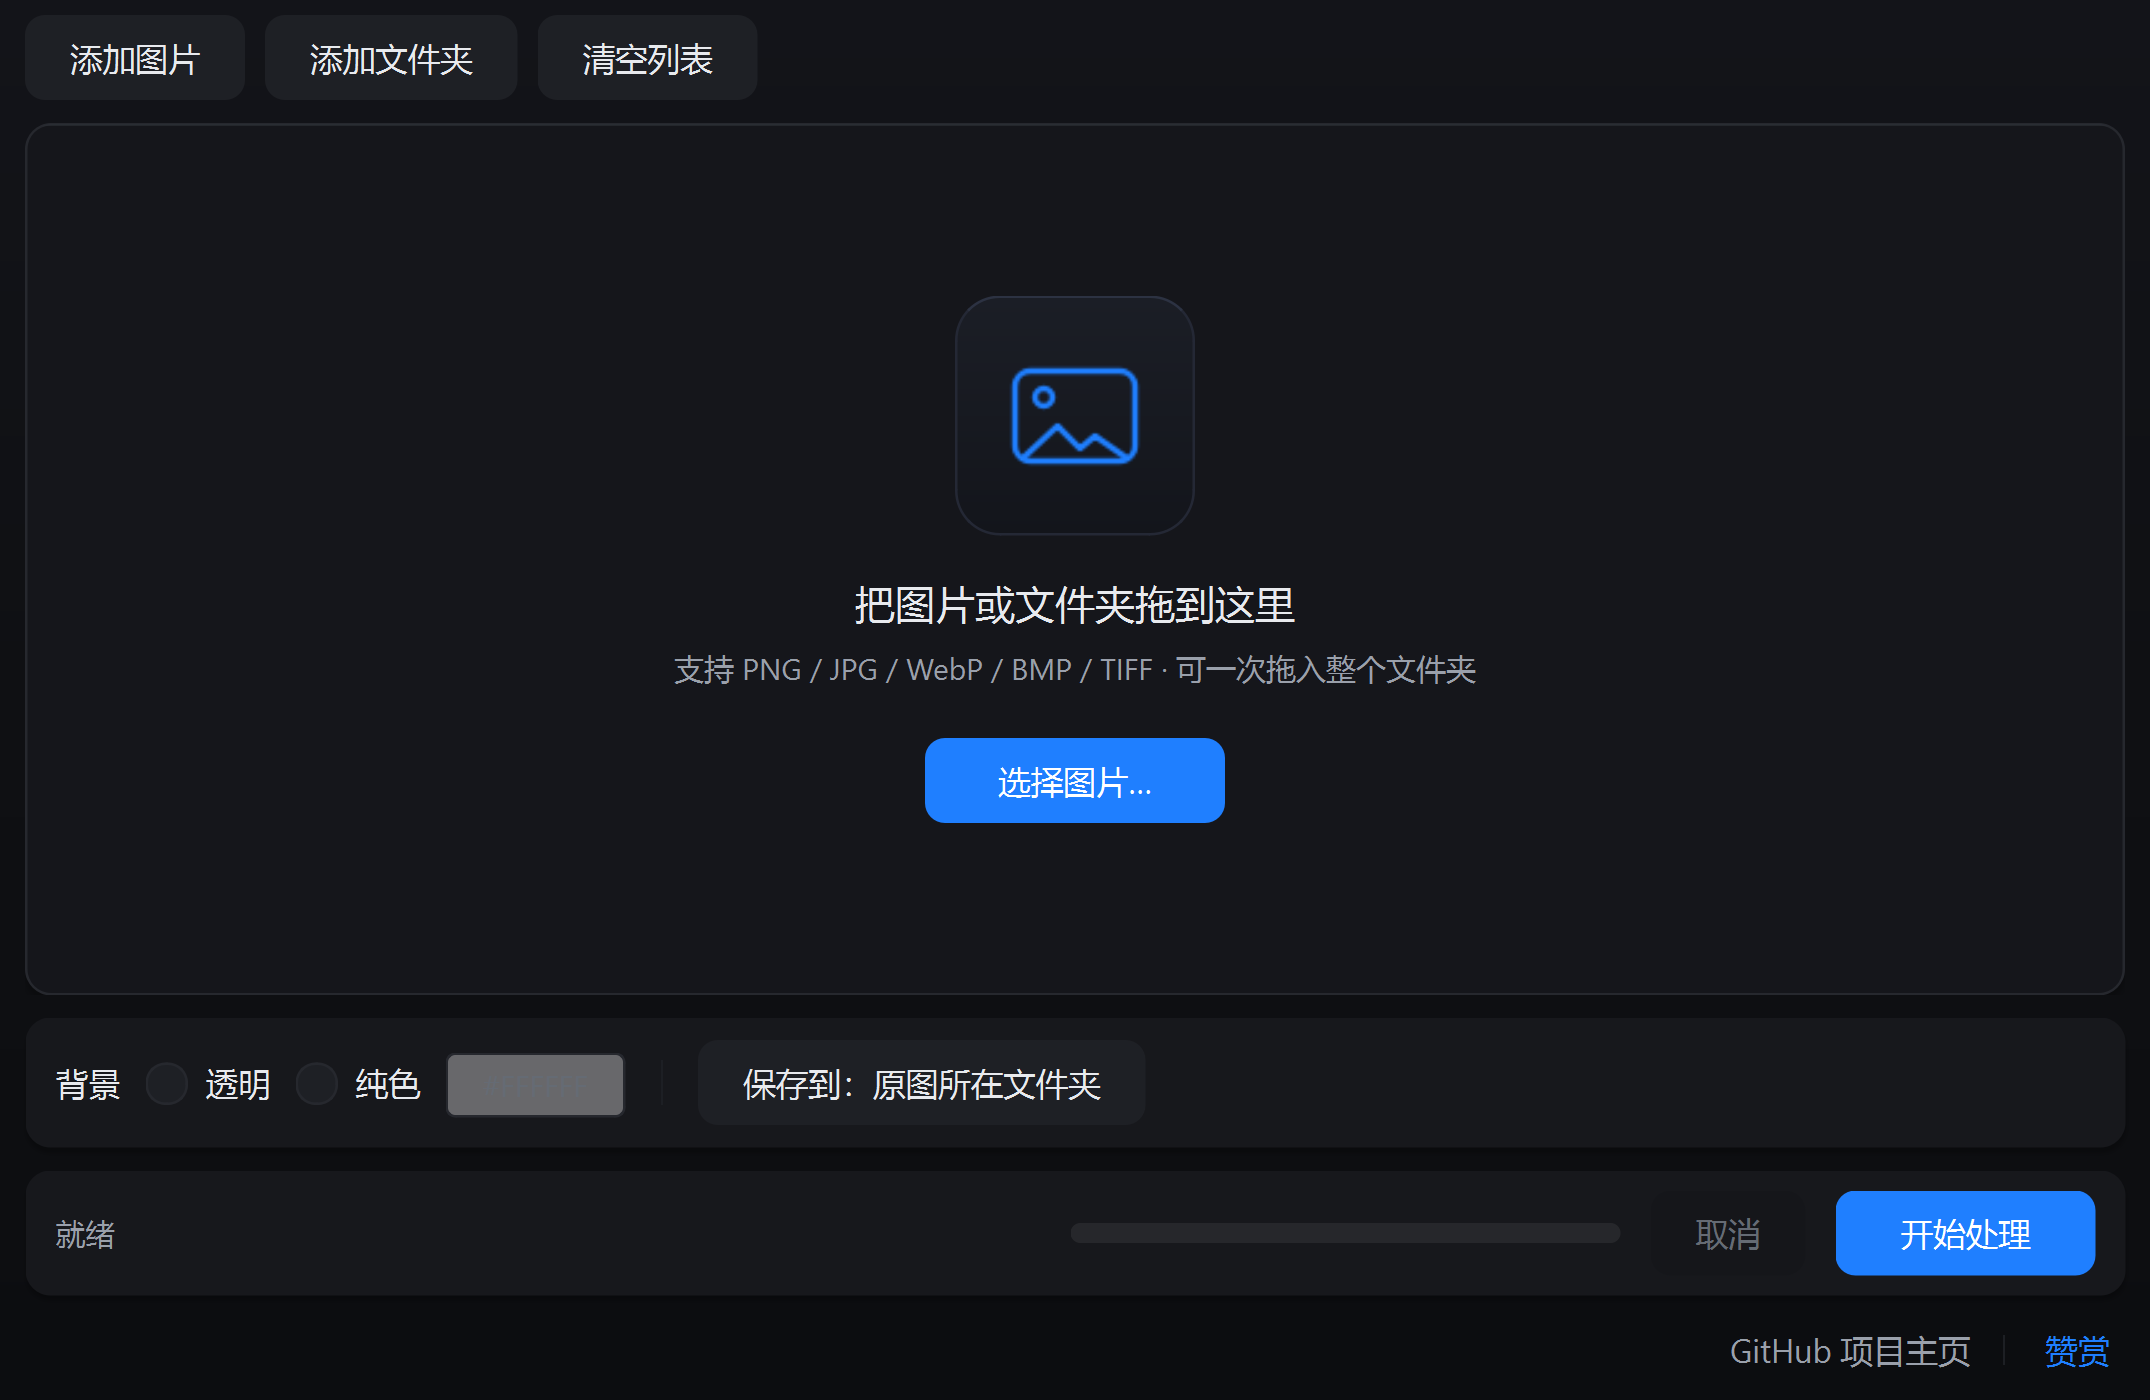
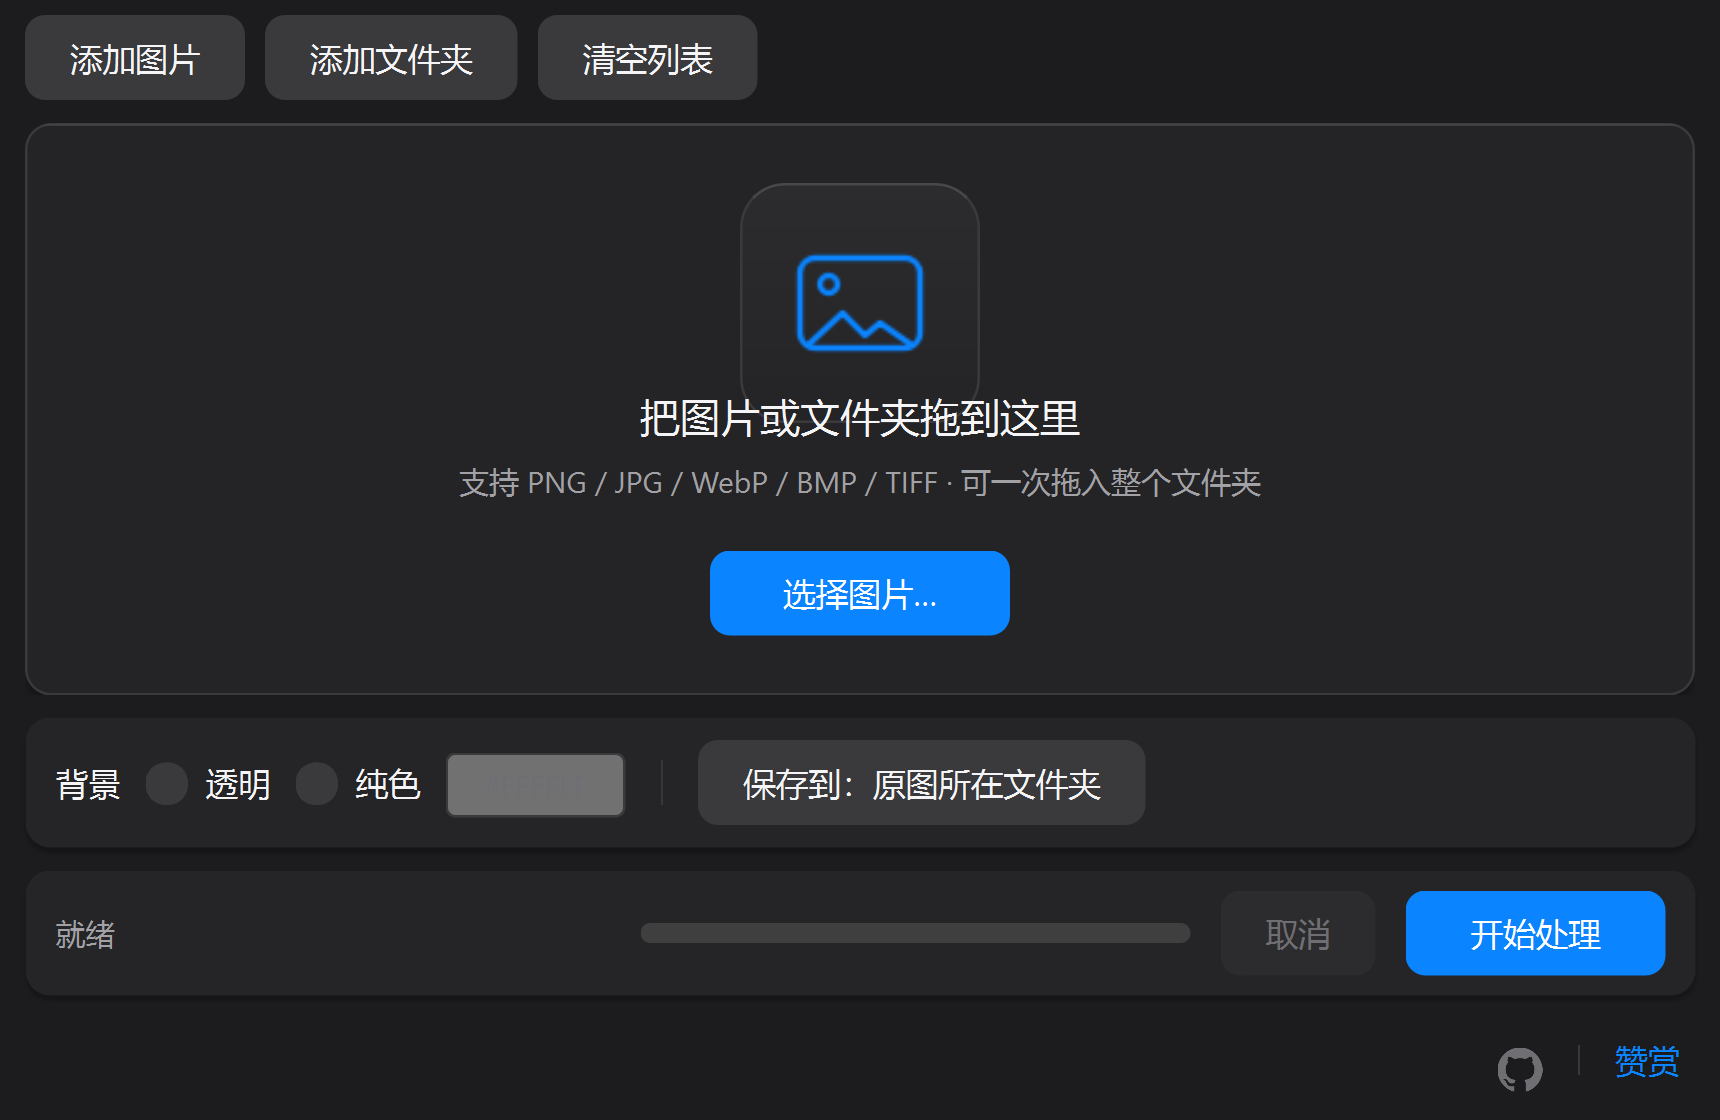
ui: 界面换苹果深色配色——中性灰底/系统蓝 #0A84FF/灰色胶囊按钮，列表行高 32，Windows 标题栏压深；布局与交互不动；v0.6.0

diff --git a/app/ui/style.py b/app/ui/style.py
@@ -1,16 +1,11 @@
-"""界面主题（流晷暗色）。
+"""界面主题（苹果深色 · macOS Sonoma 取色）。
 
-v0.5.0 对齐用户上一款产品「流晷计时器」的设计语言，核心结论来自那次对比：
-对比度高不等于突兀——流晷的对比度比上一版 PixTrace 高得多，但很干净。区别在：
+v0.6.0 换成苹果深色：底色从「近黑」抬到中性深灰（#1c1c1e），面板比底色亮一档
+（#252527）浮起，强调色改系统蓝 #0A84FF，按钮改灰色填充胶囊、分隔线压到发丝级。
 
-- **底色够深**（#0f1013 近黑）：面板（#17181c）靠明度差自然浮起，
-  不需要「1px 边框 + 顶部高光 + 投影」三件套来证明层次。
-  之前几版的「突兀感」正是这些细碎装饰叠出来的；本版把边框和高光基本拿掉。
-- **强调色纯而收敛**（#1f7fff 亮蓝）：只出现在焦点处——选中行、主按钮、
-  单选点、链接。面积小而纯，所以亮也不吵。上一版把蓝压灰（#4171cd）
-  治标不治本，界面反而发闷。
-- **选中 = 实心亮蓝块 + 白字**（流晷式），不再用暗蓝底灰字。
-- 形态放宽：圆角 8/10，按钮 min-height 22。
+这个决定和 v0.3.1 那次「苹果风被否」不冲突——那次踩的是浅色 + 大圆角 + 毛玻璃
+三件套，跟工具软件的调性打架；这次只借苹果深色的**取色与层次逻辑**，布局、
+动效、交互全部沿用流晷那套已经验证过的骨架，所以只是换皮，不是重做。
 
 仍然把 QSS 写成 Python 常量而不是 .qss 文件：打包时不必处理资源路径
 （PyInstaller 对数据文件的路径处理是个常见的坑）。
@@ -22,6 +17,8 @@ QGraphicsDropShadowEffect 补。动画/自绘过渡见 app/ui/anim.py。
 from __future__ import annotations
 
 # ---------------------------------------------------------------- 字体
+# 苹果的 SF Pro 拿不到授权，Windows 上只能退到系统中文字体；字重靠 QSS 的
+# font-weight 微调，不要试图去模拟 SF 的字形。
 UI_FONT = (
     '"Segoe UI", "Microsoft YaHei UI", "PingFang SC", "Helvetica Neue", sans-serif'
 )
@@ -30,55 +27,55 @@ MONO_FONT = '"Cascadia Mono", "Consolas", monospace'
 # ---------------------------------------------------------------- 色板
 # 常量名是既有接口（anim.py 自绘、main_window、preview、model_dialog 都引用），
 # 只换值不改名。
-BG = "#0f1013"          # 窗体底：近黑（流晷同款深度）
-BG_PANEL = "#17181c"    # 面板 / 卡片：靠明度差浮起，无边框
-BG_CARD = "#17181c"
-BG_WELL = "#121317"     # 凹槽：列表 / 表头
-BG_DROP = "#15161b"     # 空状态拖拽区：比面板亮一丝
-BG_DROP_ACTIVE = "#14294f"  # 拖拽悬停：带蓝的深底
-BG_INPUT = "#1e2025"
-BG_FILL = "#1e2025"     # 次级填充：进度槽、悬停底
-BG_HOVER = "#25272e"
-BG_PRESSED = "#191b1f"  # 按压变暗（比变亮更符合「按下去」的直觉）
-BTN_HOVER = "#25272e"
-BG_SELECTED = "#1f7fff"  # 列表选中：实心亮蓝块（流晷式）
-BORDER = "#1d1f24"      # 极淡：深底下只留一条「若隐若现」的线
-BORDER_STRONG = "#26282e"
-BORDER_HOVER = "#34373f"
-HILIGHT = "#1d1f24"     # 顶部高光已弱化到与边框同色：不再作为分层手段
-HILIGHT_STRONG = "#2b2e35"
-BG_DISABLED = "#15161a"
-BORDER_DISABLED = "#202227"
-BG_GLYPH_TOP = "#1b1e26"   # 空状态图标小卡
-BG_GLYPH_BOTTOM = "#13151b"
-BORDER_GLYPH = "#242835"
-HILIGHT_GLYPH = "#2c3242"
-TEXT = "#e8eaee"
-TEXT_DIM = "#9aa0ab"
-TEXT_FAINT = "#656b74"
+BG = "#1c1c1e"          # 窗体底：中性深灰（苹果深色的 windowBackground）
+BG_PANEL = "#252527"    # 面板 / 卡片：比底色亮一档，靠明度差浮起
+BG_CARD = "#252527"
+BG_WELL = "#1c1c1e"     # 凹槽：列表 / 表头与窗体同色（苹果列表不另铺底）
+BG_DROP = "#242426"     # 空状态拖拽区：比窗体亮一点，像一块可投放的板
+BG_DROP_ACTIVE = "#102c4a"  # 拖拽悬停：系统蓝的深色底
+BG_INPUT = "#3a3a3c"    # 控件填充：苹果的灰色胶囊按钮
+BG_FILL = "#3a3a3c"     # 次级填充：进度槽、悬停底
+BG_HOVER = "#3a3a3c"
+BG_PRESSED = "#2c2c2e"  # 按压变暗（比变亮更符合「按下去」的直觉）
+BTN_HOVER = "#48484a"
+BG_SELECTED = "#0a84ff"  # 列表选中：系统蓝实心块
+BORDER = "#38383a"      # 发丝线：只用来分栏，不用来「撑」层次
+BORDER_STRONG = "#3a3a3c"
+BORDER_HOVER = "#545456"
+HILIGHT = "#38383a"     # 顶部高光与边框同色：不作为分层手段
+HILIGHT_STRONG = "#48484a"
+BG_DISABLED = "#2c2c2e"
+BORDER_DISABLED = "#333335"
+BG_GLYPH_TOP = "#2c2c2e"   # 空状态图标小卡
+BG_GLYPH_BOTTOM = "#242426"
+BORDER_GLYPH = "#3a3a3c"
+HILIGHT_GLYPH = "#48484a"
+TEXT = "#f5f5f7"        # 苹果的 label
+TEXT_DIM = "#a1a1a6"    # secondaryLabel
+TEXT_FAINT = "#6e6e73"  # tertiaryLabel
 TEXT_ON_ACCENT = "#ffffff"
-ACCENT = "#1f7fff"      # 流晷同款亮蓝，只用在焦点处
-ACCENT_HOVER = "#3d90ff"
-ACCENT_PRESSED = "#1668d6"
-ACCENT_SOFT = "#142a52"  # 下拉列表等次级选中底
-ACCENT_HILIGHT = "#69a7ff"
-OK = "#3fd0a4"
-WARN = "#d9b36c"
-ERR = "#f28b82"
-OK_TEXT = "#43d9a8"
-WARN_TEXT = "#e3c084"
-ERR_TEXT = "#ff8078"
-PREVIEW_BG = "#0b0c0e"
-CHECKER_LIGHT = "#292c33"   # 预览窗透明区棋盘格
-CHECKER_DARK = "#1e2025"
+ACCENT = "#0a84ff"      # 系统蓝（深色模式），只用在焦点处
+ACCENT_HOVER = "#409cff"
+ACCENT_PRESSED = "#0060df"
+ACCENT_SOFT = "rgba(10, 132, 255, 0.20)"  # 下拉列表等次级选中底
+ACCENT_HILIGHT = "#64b5ff"
+OK = "#30d158"
+WARN = "#ffd60a"
+ERR = "#ff453a"
+OK_TEXT = "#30d158"
+WARN_TEXT = "#ffd60a"
+ERR_TEXT = "#ff453a"
+PREVIEW_BG = "#1c1c1e"
+CHECKER_LIGHT = "#2c2c2e"   # 预览窗透明区棋盘格
+CHECKER_DARK = "#242426"
 
-# 主窗口中央区：极淡的纵向渐变（底已近黑，跨度刻意很小）
-SURFACE_TOP = "#131419"
-SURFACE_BOTTOM = "#0c0d10"
+# 主窗口中央区：苹果深色是平的，不再做纵向渐变
+SURFACE_TOP = "#1c1c1e"
+SURFACE_BOTTOM = "#1c1c1e"
 
-FOCUS_RING = "rgba(31, 127, 255, 0.5)"
-TRACK = "rgba(255, 255, 255, 0.07)"
-ROW_HOVER = "rgba(255, 255, 255, 0.05)"
+FOCUS_RING = "rgba(10, 132, 255, 0.5)"
+TRACK = "rgba(255, 255, 255, 0.12)"
+ROW_HOVER = "rgba(255, 255, 255, 0.06)"
 
 STATUS_COLORS = {
     "等待": TEXT_FAINT,

diff --git a/app/main.py b/app/main.py
@@ -194,6 +194,29 @@ def _uicheck(out_path: Path | None = None) -> int:
     return 0 if ok else 1
 
 
+def _use_dark_titlebar(window) -> None:
+    """Windows：把系统标题栏也压成深色。
+
+    深色界面配一条白标题栏，看起来像两个程序拼在一起。DWMWA_USE_IMMERSIVE_DARK_MODE
+    在 Win10 20H1 之后是 20，更早是 19，两个都试；失败就静默放弃（只是不好看，不影响功能）。
+    """
+    if sys.platform != "win32":
+        return
+    try:
+        import ctypes
+
+        hwnd = int(window.winId())
+        value = ctypes.c_int(1)
+        for attribute in (20, 19):
+            result = ctypes.windll.dwmapi.DwmSetWindowAttribute(
+                hwnd, attribute, ctypes.byref(value), ctypes.sizeof(value)
+            )
+            if result == 0:
+                break
+    except (OSError, AttributeError):
+        pass
+
+
 def _run_gui() -> int:
     from PySide6.QtWidgets import QApplication
 
@@ -226,6 +249,7 @@ def _run_gui() -> int:
 
     window = MainWindow()
     window.show()
+    _use_dark_titlebar(window)
     return app.exec()
 
 

diff --git a/app/ui/main_window.py b/app/ui/main_window.py
@@ -68,7 +68,7 @@ COLUMNS = ("文件", "状态", "耗时")
 SRC_ROLE = Qt.UserRole
 REPLAN_DELAY_MS = 200
 TITLE = "PixTrace · 去背景"
-ROW_HEIGHT = 30
+ROW_HEIGHT = 32  # 苹果深色的列表行更松（原 30）
 DEFAULT_SIZE = (860, 560)  # 开窗尺寸
 MIN_SIZE = (860, 560)  # 下限，再小设置行会挤到换行
 GEOMETRY_KEY = "window/geometry2"  # 尾号跟默认尺寸策略走，改尺寸就 +1

diff --git a/PixTrace-界面优化方案.md b/PixTrace-界面优化方案.md
@@ -124,3 +124,20 @@
 | `app/ui/preview.py` / `model_dialog.py` | 套新主题，S3 |
 | `scripts/shot_gui.py` / `smoke_gui.py` | 适配新控件与截图流程 |
 | 其余（core/batch/infra） | **零改动** |
+
+---
+
+## 六、后续结果（2026-10-31 补记）
+
+本方案（v0.3.x 的「无边框窗口 + 自绘标题栏 + 大改布局」）当时已落地一版，
+但界面被判定为「太丑」，v0.3.1 全量回退到 v0.2.0 观感；后续 v0.5.0 改用
+「流晷计时器」那套近黑底 + 亮蓝焦点，布局保持至今。
+
+v0.6.0 重新引入苹果风，但**只取配色与层次逻辑**，不动布局与交互：
+
+- 窗底 #1c1c1e、面板 #252527、发丝线 #38383a、系统蓝 #0A84FF；
+- 按钮改灰色填充胶囊，列表行高 30 → 32；
+- 增加 Windows 深色标题栏（DWM），避免深色窗口配白标题栏；
+- 无边框窗口、毛玻璃、SF 字体仍不做（风险与收益不匹配，详见当次讨论）。
+
+结论：**「苹果风」在本项目里等于配色，不等于重做窗口框架。**
